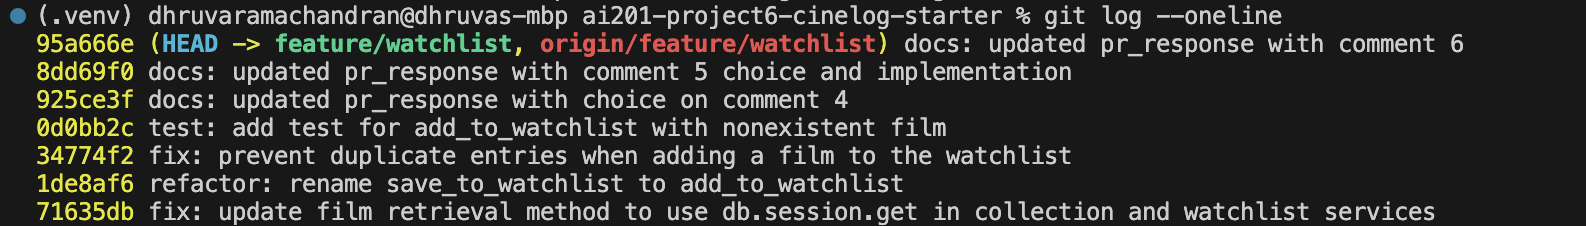
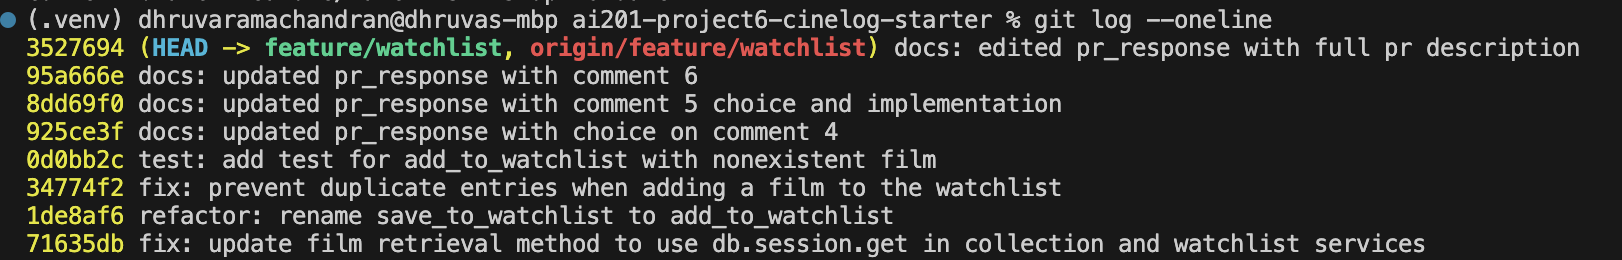
docs: updated AI usage section

Changed region(s): [[0.0, 0.031, 0.9887, 0.9912]]

diff --git a/pr_response.md b/pr_response.md
@@ -3,6 +3,12 @@
 ## AI Usage
 <!-- Fill in at the end — how you used AI tools during this project -->
 
+In this project, I had AI tools help me in a few ways:
+
+- To orient myself, I had it detail me the app structure and important files, as well as the logic behind the services
+
+- I had it test my reasoning for the design choices. In comment 4 specifically, I gave the prompt "Read my argument for comment 4, and act as a reviewer. Point out a counter-argument or tradeoff". I then used that to acknowlege the tradeoff and refine my point.
+
 ## Comment 1 — Rename
 **What I did**
 I simply used Cmd + Shift + H to find all occurences of "save_to_watchlist" in the repo, and replaced it with "add_to_watchlist"
